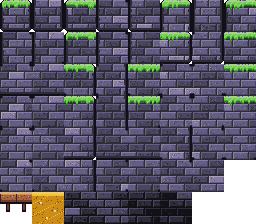
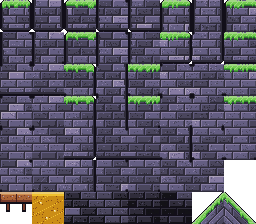
Pass 115: slopes
Builds bible 6.1's slope handling, the last unbuilt line of the movement
spec: 45-degree slope tiles (legend / and \) in every zone's tileset with
triangle collision. Full speed up and down along the slope, no creep when
standing, a full jump from one; a slope is floor, never a wall (wall
contact and the ledge clip filter by normal); the sprite is drawn down
onto the slope. Ramps in the gym, Leaf Landing, the King's Hall, the
Spring of Sky and the Ore Vault. Tests, bible 6.1, README, pass-115.md.

Claude-Session: https://claude.ai/code/session_014XpJiMFgnJ9J2s2MBMvwXc

Changed region(s): [[0.75, 0.8438, 1.0, 1.0]]

diff --git a/tools/art/tilegen.py b/tools/art/tilegen.py
@@ -9,7 +9,8 @@ Tileset atlas (16 world px tiles at 2x render density, so 32 px each; 8 columns)
   rows 0-5: the 47 "blob" autotiles, in the order of blob_masks() below
             (scripts/world/tileset_factory.gd computes the same list)
   row 6:    one-way platform, amber, 2 interior tiles one shade darker (two
-            tiles from open air) and 2 two shades darker (three or more)
+            tiles from open air) and 2 two shades darker (three or more), then
+            the two 45-degree slopes: "/" rising to the east, "\\" rising to the west
 Backgrounds: <zone>_far.png and <zone>_mid.png, 640x480, tile horizontally.
 
 Usage: python3 tools/art/tilegen.py
@@ -547,6 +548,27 @@ def paint_amber(img, ox, oy):
         img.putpixel((ox + bx, oy + by), c("gold-7"))
 
 
+def paint_slope(img, ox, oy, zone, rising_east, seed):
+    """A 45-degree slope (design bible 6.1): the zone's capped ground tile,
+    sheared down column by column so its cap runs along the diagonal. Solid
+    below the diagonal, clear above; it meets ground on its high side and below."""
+    tmp = Image.new("RGBA", (T, T), CLEAR)
+    paint_tile(tmp, 0, 0, E | S | W | SE | SW, zone, seed)
+    for x in range(T):
+        drop = T - 1 - x if rising_east else x
+        for y in range(T):
+            sy = y - drop
+            img.putpixel((ox + x, oy + y), tmp.getpixel((x, sy)) if sy >= 0 else CLEAR)
+    # A dark outline one world pixel thick just above the cap, so the diagonal
+    # reads against the sky the way a flat top's moss does.
+    out = c(ZONES[zone]["outline"])
+    for x in range(T):
+        drop = T - 1 - x if rising_east else x
+        for k in range(1, D):
+            if drop - k >= 0:
+                img.putpixel((ox + x, oy + drop - k), out)
+
+
 def build_tileset(zone):
     masks = blob_masks()
     assert len(masks) == 47
@@ -560,6 +582,8 @@ def build_tileset(zone):
     for k in range(4):
         paint_tile(img, (2 + k) * T, 6 * T, 255, zone, 101 + k)
         darken(img, (2 + k) * T, 6 * T, 1 if k < 2 else 2)
+    paint_slope(img, 6 * T, 6 * T, zone, True, 121)
+    paint_slope(img, 7 * T, 6 * T, zone, False, 122)
     TILES.mkdir(parents=True, exist_ok=True)
     img.save(TILES / f"{zone}.png")
 

diff --git a/tools/levels/gen_gym.py b/tools/levels/gen_gym.py
@@ -65,6 +65,14 @@ label(158, 13, "Drop down to loop")
 for (x0, y) in [(92, 36), (98, 32), (92, 28), (98, 24), (102, 21)]:
     rect(x0, y, x0 + 4, y, '-')
 label(90, 38, "One-way stairs (down+jump drops)")
+# Lower right: a hill of 45-degree slopes, 4 tiles up and down (design bible 6.1)
+for i in range(4):
+    g[39 - i][136 + i] = '/'
+    rect(137 + i, 39 - i, 137 + i, 39)
+    g[39 - i][147 - i] = '\\'
+    rect(146 - i, 39 - i, 146 - i, 39)
+rect(140, 36, 143, 39)
+label(134, 31, "Slopes: run up and down")
 # Lower right: combat arena
 g[39][118] = 'M'
 g[33][132] = 'H'

diff --git a/docs/loop/pass-115.md b/docs/loop/pass-115.md
@@ -1,0 +1,84 @@
+# Pass 115: slopes
+
+Movement (96) was tied for lowest apart from Art. I audited bible 6 against `movement_tuning.gd` and `player.gd`. Earlier passes had tested every number in 6.2 to 6.6 at the edges of its window (passes 105 to 107 and 111). One line of the spec had never been built at all: 6.1's **slope handling**, "snap to slopes up to 45°, no speed loss going up". The player body was already set up for it (`floor_max_angle` 46°, `floor_constant_speed`, a 4 px floor snap), but no tile in the game was a slope, so every hill in the world was a staircase of square steps.
+
+This pass builds the slopes, the feel rules around them, and the first ramps in the world.
+
+## As built
+
+**Tiles.**
+- `tilegen.py` draws two 45° slope tiles for every zone into row 6 of the atlas: (6, 6) `/` rises east, and (7, 6) `\` rises west.
+- Each one is the zone's capped ground tile, sheared down column by column, so the zone's moss or stone cap runs along the diagonal. A thin outline sits over the cap.
+- `TilesetFactory` gives them triangle collision (`SLOPE_EAST`, `SLOPE_WEST`, `is_slope`).
+
+**Rooms** (`room.gd`).
+- Legend `/` and `\`.
+- Neighbouring ground counts a slope as ground, so tiles join it without outlines. A slope still counts as open air for wall depth, so the ground under a ramp stays as light as any surface tile. Without that, the cells under a ramp darkened into a checkerboard staircase.
+- `Room.is_solid_at` follows the diagonal, so seeds, globs and bolts see the true surface.
+
+**The player.**
+- Runs up and down a slope at full run speed measured along it, which is the bible's "no speed loss going up". Running down, the 4 px snap keeps the player on the ground.
+- Stands still on a slope with no creep, and jumps from one exactly as from flat ground.
+- A slope's face is floor, never a wall. Wall contact (`_wall_at`) and the ledge clip now only answer to a contact whose normal is at least 0.9 horizontal (`WALL_NORMAL`). Before this, falling against a ramp with the Climbing Glove would have caught you in a wall slide, and the ledge clip would have popped you up its face.
+- The 12 px box rests on its downhill corner on a slope, up to 6 px above the slope under its middle. A ray finds the slope under the feet, and `_slope_sink` draws the sprite down onto it (with the scarf, which hangs from the sprite's neck). The body itself doesn't move, so no collision or timing changes.
+
+**Enemies** use the same floor angle and snap. Walkers treat a ramp as the end of their patrol: their wall probe meets its face and their floor probe misses a downhill.
+
+**Reachability:** `Reach` counts a slope cell as a whole block. A ramp reads as a stair of one-tile steps, which the model climbs with hops. It can only claim less than the player can really do, never more.
+
+**Where the ramps are:**
+- the gym: a hill four tiles up and down, labelled "Slopes: run up and down", in the lower-right combat floor (made by `gen_gym.py`);
+- Leaf Landing: a two-tile hump in the bough road;
+- the King's Hall: both ends of the dais;
+- the Spring of Sky: both ends of its dais;
+- the Ore Vault: the mound in the hidden pocket.
+
+The rooms were otherwise flat, so these are the natural places. New rooms can now use slopes.
+
+## Screenshots
+
+In `/mnt/project-files/pass-115/`:
+- `gym_hill.png` and `gym_hill_close.png`: the player standing halfway up the gym's hill, feet drawn on the slope.
+- `leaf_landing.png`: the Branches hump, with the moss cap following the slope.
+- `king_hall.png`: the dais ramps, in Eolis' dressed-stone cap. This shot was taken before the depth fix.
+
+## Tests
+
+In `test_movement.gd`:
+- `test_slopes_keep_your_speed_and_your_footing`:
+  - zero frames in the air across a ramp up, a plateau and a ramp down;
+  - path speed at least 90% of run speed going up, and between 90% and 110% coming down;
+  - back on the floor, with the sprite unsunk;
+  - standing still on a slope moves less than 0.5 px over 40 frames;
+  - the sprite is sunk about 6 px;
+  - a jump from the slope matches a flat jump.
+- `test_a_slope_is_floor_not_a_wall`: with the glove, falling onto either ramp's face while pushing into it never sets a wall contact or a slide, and it lands. The room's real wall still catches a slide.
+- `test_a_slope_is_solid_below_its_diagonal`: `is_solid_at` on both sides of both diagonals.
+- The pass 105 to 111 movement tests (wall contact, ledge clip, one-way lips) all still pass with the wall-normal filter.
+
+## Bible
+
+- 6.1: the slope row now describes what was built and where.
+- `levels/README.md`: legend `/` and `\`, and a layout note.
+
+## Rubric
+
+| Category | Weight | Score | Notes |
+| --- | --- | --- | --- |
+| Movement feel | 20 | 96.5 | The last unbuilt line of the movement spec is in. Slopes keep speed and footing, are never walls, and the feet sit on them. |
+| Combat and enemies | 15 | 96.5 | Unchanged. |
+| World and level design | 15 | 97 | Unchanged. |
+| Art cohesion | 15 | 84.75 | Unchanged (deferred). |
+| Bosses | 10 | 98.5 | Unchanged. |
+| Systems | 10 | 96.5 | Unchanged. |
+| Audio | 5 | 96 | Unchanged. |
+| Stability and performance | 5 | 96.5 | Unchanged. |
+| Faithfulness | 5 | 96.25 | Unchanged. |
+
+Full suite: 2252 checks, all passing.
+
+Weighted score: 94.975 (up from 94.875).
+
+## Next
+
+Audio (96) is now the lowest category apart from Art. Pass 116 takes Audio.

diff --git a/levels/README.md b/levels/README.md
@@ -34,6 +34,7 @@ camera: wide       (optional: the camera eases out to show 25% more each way, fo
 | --- | --- |
 | `#` | Solid ground (top-exposed tiles get a moss edge) |
 | `-` | One-way platform (jump up through, Down + Jump to drop) |
+| `/` `\` | 45° slope, solid below the diagonal: `/` rises to the east, `\` to the west. Put ground under it and on its high side; the reachability checker counts it as a whole block |
 | `^` | Floor spikes (hazard, pogo-able) |
 | `o` | Thorn bulb (hazard, pogo target) |
 | `C` | Cracked stone (Mattock breaks it) |
@@ -135,3 +136,5 @@ Sap with open air beside it and more sap below draws as a pouring falls (Amber F
 Safe numbers for layouts (a little under the real movement): a standing jump clears 4 tiles
 up with 2 across, 3 up with 4 across, or 2 up with 5 across. Leave 3 clear tiles of headroom
 for the body. Platforms that should be reachable from the floor go 4 rows above it.
+A slope (`/`, `\`) starts on open floor at its low side and meets ground at its high side;
+stack them diagonally for a taller ramp, with ground under each. Walkers turn at a ramp.

diff --git a/docs/design-bible.md b/docs/design-bible.md
@@ -274,7 +274,7 @@ All numbers are at the internal resolution (1 unit = 1 px at 640x360). Tile = 16
 | Ground acceleration | 1,800 px/s² (reaches max in about 0.09 s) |
 | Ground deceleration | 2,600 px/s² |
 | Turnaround boost | deceleration x 1.6 when input opposes velocity |
-| Slope handling | snap to slopes up to 45°, no speed loss going up |
+| Slope handling | snap to slopes up to 45°, no speed loss going up. Built in pass 115: 45° slope tiles (legend `/` rising east, `\` rising west) in every zone's tileset. You run up and down them at full run speed along the slope without leaving the ground (4 px floor snap), stand still on one without creeping, and jump from one as from flat ground. A slope's face is floor, never a wall: the Climbing Glove doesn't catch on it and the ledge clip leaves it alone. The box rests on its downhill corner, so the sprite is drawn down onto the slope (up to 6 px). Walkers treat a ramp as the end of their patrol. In the gym's hill, Leaf Landing's hump, the king's dais, the Spring of Sky's dais and the Ore Vault's mound |
 
 ### 6.2 Jump
 
